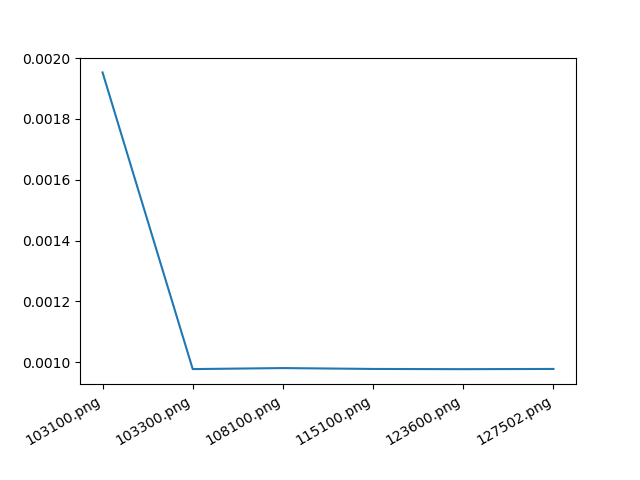
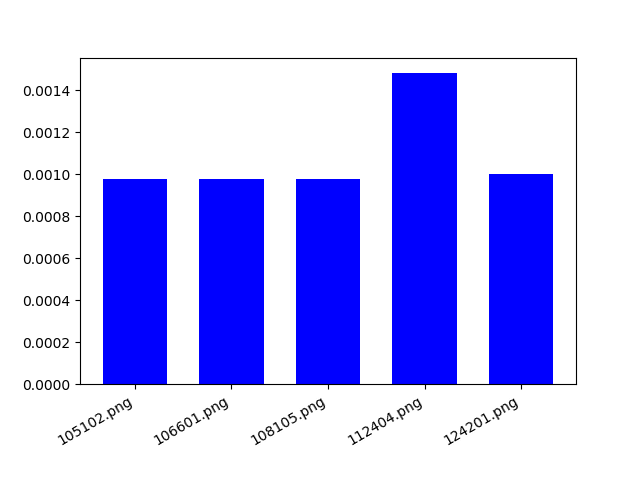
Update
grafica tiempo

diff --git a/kdtree.py b/kdtree.py
@@ -47,7 +47,7 @@ Y = []
 
 folder_consultas = 'consultas/'
 
-lista_consultas = ['103100.png','103300.png','108100.png','115100.png','123600.png','127502.png']
+lista_consultas = ['105102.png','108105.png','106601.png','112404.png','124201.png']
 
 
 for consulta in lista_consultas:
@@ -65,6 +65,8 @@ for consulta in lista_consultas:
 
 x=0
 
+#mostrando las imagenes mas parecidas
+'''
 for name in idx:
 	if(x<limite):
 		result = cv2.imread(folder+lista_label[name])
@@ -76,11 +78,12 @@ for name in idx:
 		x+=1
 	else:
 		break	
-
-
+'''
 
 # plot
-plt.plot(X,Y)
+width = 1/1.5
+
+plt.bar(X,Y,width, color="blue")
 # beautify the x-labels
 plt.gcf().autofmt_xdate()
 
